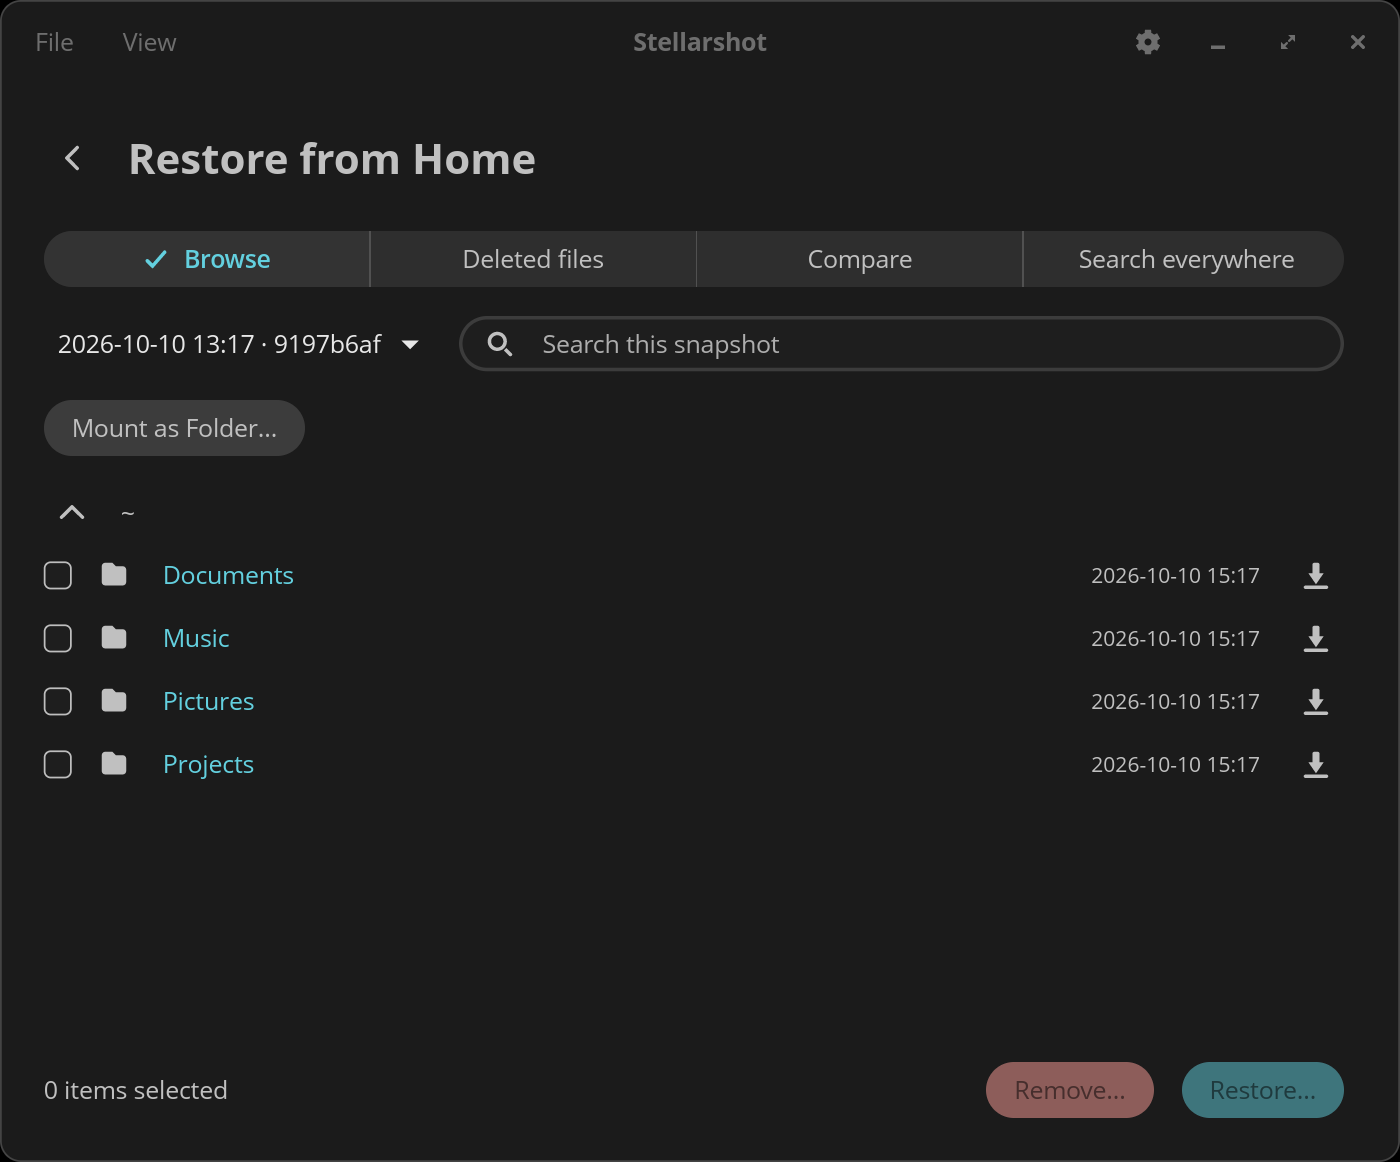
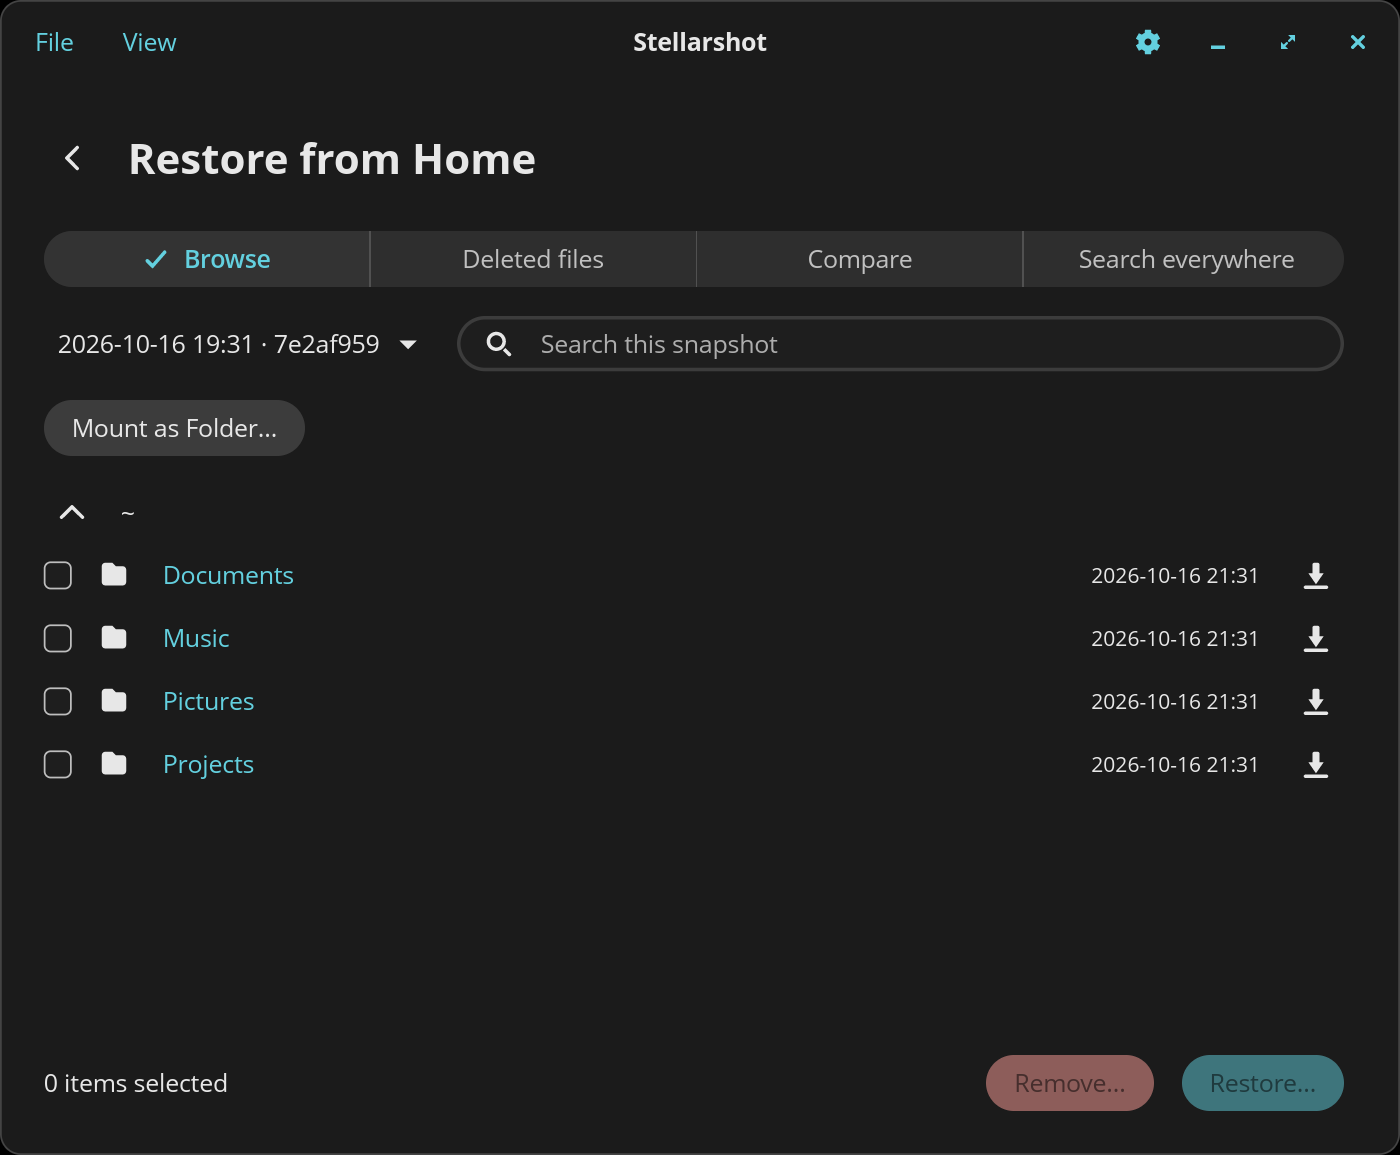
feat: release 0.11.0
Safer restores and cleaner credentials, and the application side of
being listed in the COSMIC Store: see the changelog for the details.

Release steps: every dependency at its newest compatible version
(cargo update moved twelve, all patch or minor). zbus 6 is the one newer
major held back; it does not build as a drop-in (its proxy macro moved)
and libcosmic and oo7 are still on zbus 5, so it stays at 5 for now. The
release workflow builds with Rust 1.99.1, the version this was tested
with.

The screenshots are regenerated, and no longer show a temporary folder as
the backup's destination: the demo repository now lives at ~/Backups in
the demo home. The empty first screen stays in the README but is no
longer one of the store's screenshots, since store listings should not
show an empty state.

diff --git a/VALIDATION.md b/VALIDATION.md
@@ -877,7 +877,7 @@ Things a test cannot reach yet, and how they were confirmed.
 | The `.deb` contains the binary, desktop entry, both icons, metainfo and README, with `Recommends: rclone` and the no-reply maintainer address | `dpkg-deb --info` and `--contents` on the built package | M0 |
 | The shipped binary has no debug log path | `dpkg-deb -x`, then `strings usr/bin/stellarshot` | M0 |
 | `release-build` strips developer logging, proven both ways | With the source switch turned on: the release build with `release-build` holds no `developer-debug.log` string, and a build without the feature holds one; the switch then put back | 0.10.0 |
-| The screenshots match 0.10.0 | `scripts/screenshots.sh profile restore profile-light`, every image inspected: the rows with their file counts and three buttons, the info button beside "Recent snapshots", and Remove… beside Restore… | 0.10.0 |
+| The screenshots match 0.11.0 | `scripts/screenshots.sh`, every image inspected: the destination reads `~/Backups` (the demo repository now lives in the demo home, built outside it and moved in after the wizard's screenshots), no temporary path anywhere; the empty first screen is kept for the README but no longer listed in the store | 0.11.0 |
 | The window starts in a COSMIC Wayland session and exits cleanly | Launched for six seconds; no output on stderr, no process left behind | M1 |
 | Settings migrate on a real account | First launch copied `~/.config/cosmic/com.github.cosmic-utils.Stellarshot/v1/repositories` to the new ID | M1 |
 | The main screen, wizard and profile page render, the estimate fills in, and a remembered password unlocks the page | `scripts/screenshots.sh`, then every image inspected | M2 |

diff --git a/CHANGELOG.md b/CHANGELOG.md
@@ -7,6 +7,8 @@ and this project adheres to [Semantic Versioning](https://semver.org/spec/v2.0.0
 
 ## [Unreleased]
 
+## [0.11.0] - 2026-10-16
+
 ### Added
 
 - **Ready to run as a Flatpak.** Inside a sandbox, scheduled backups run from
